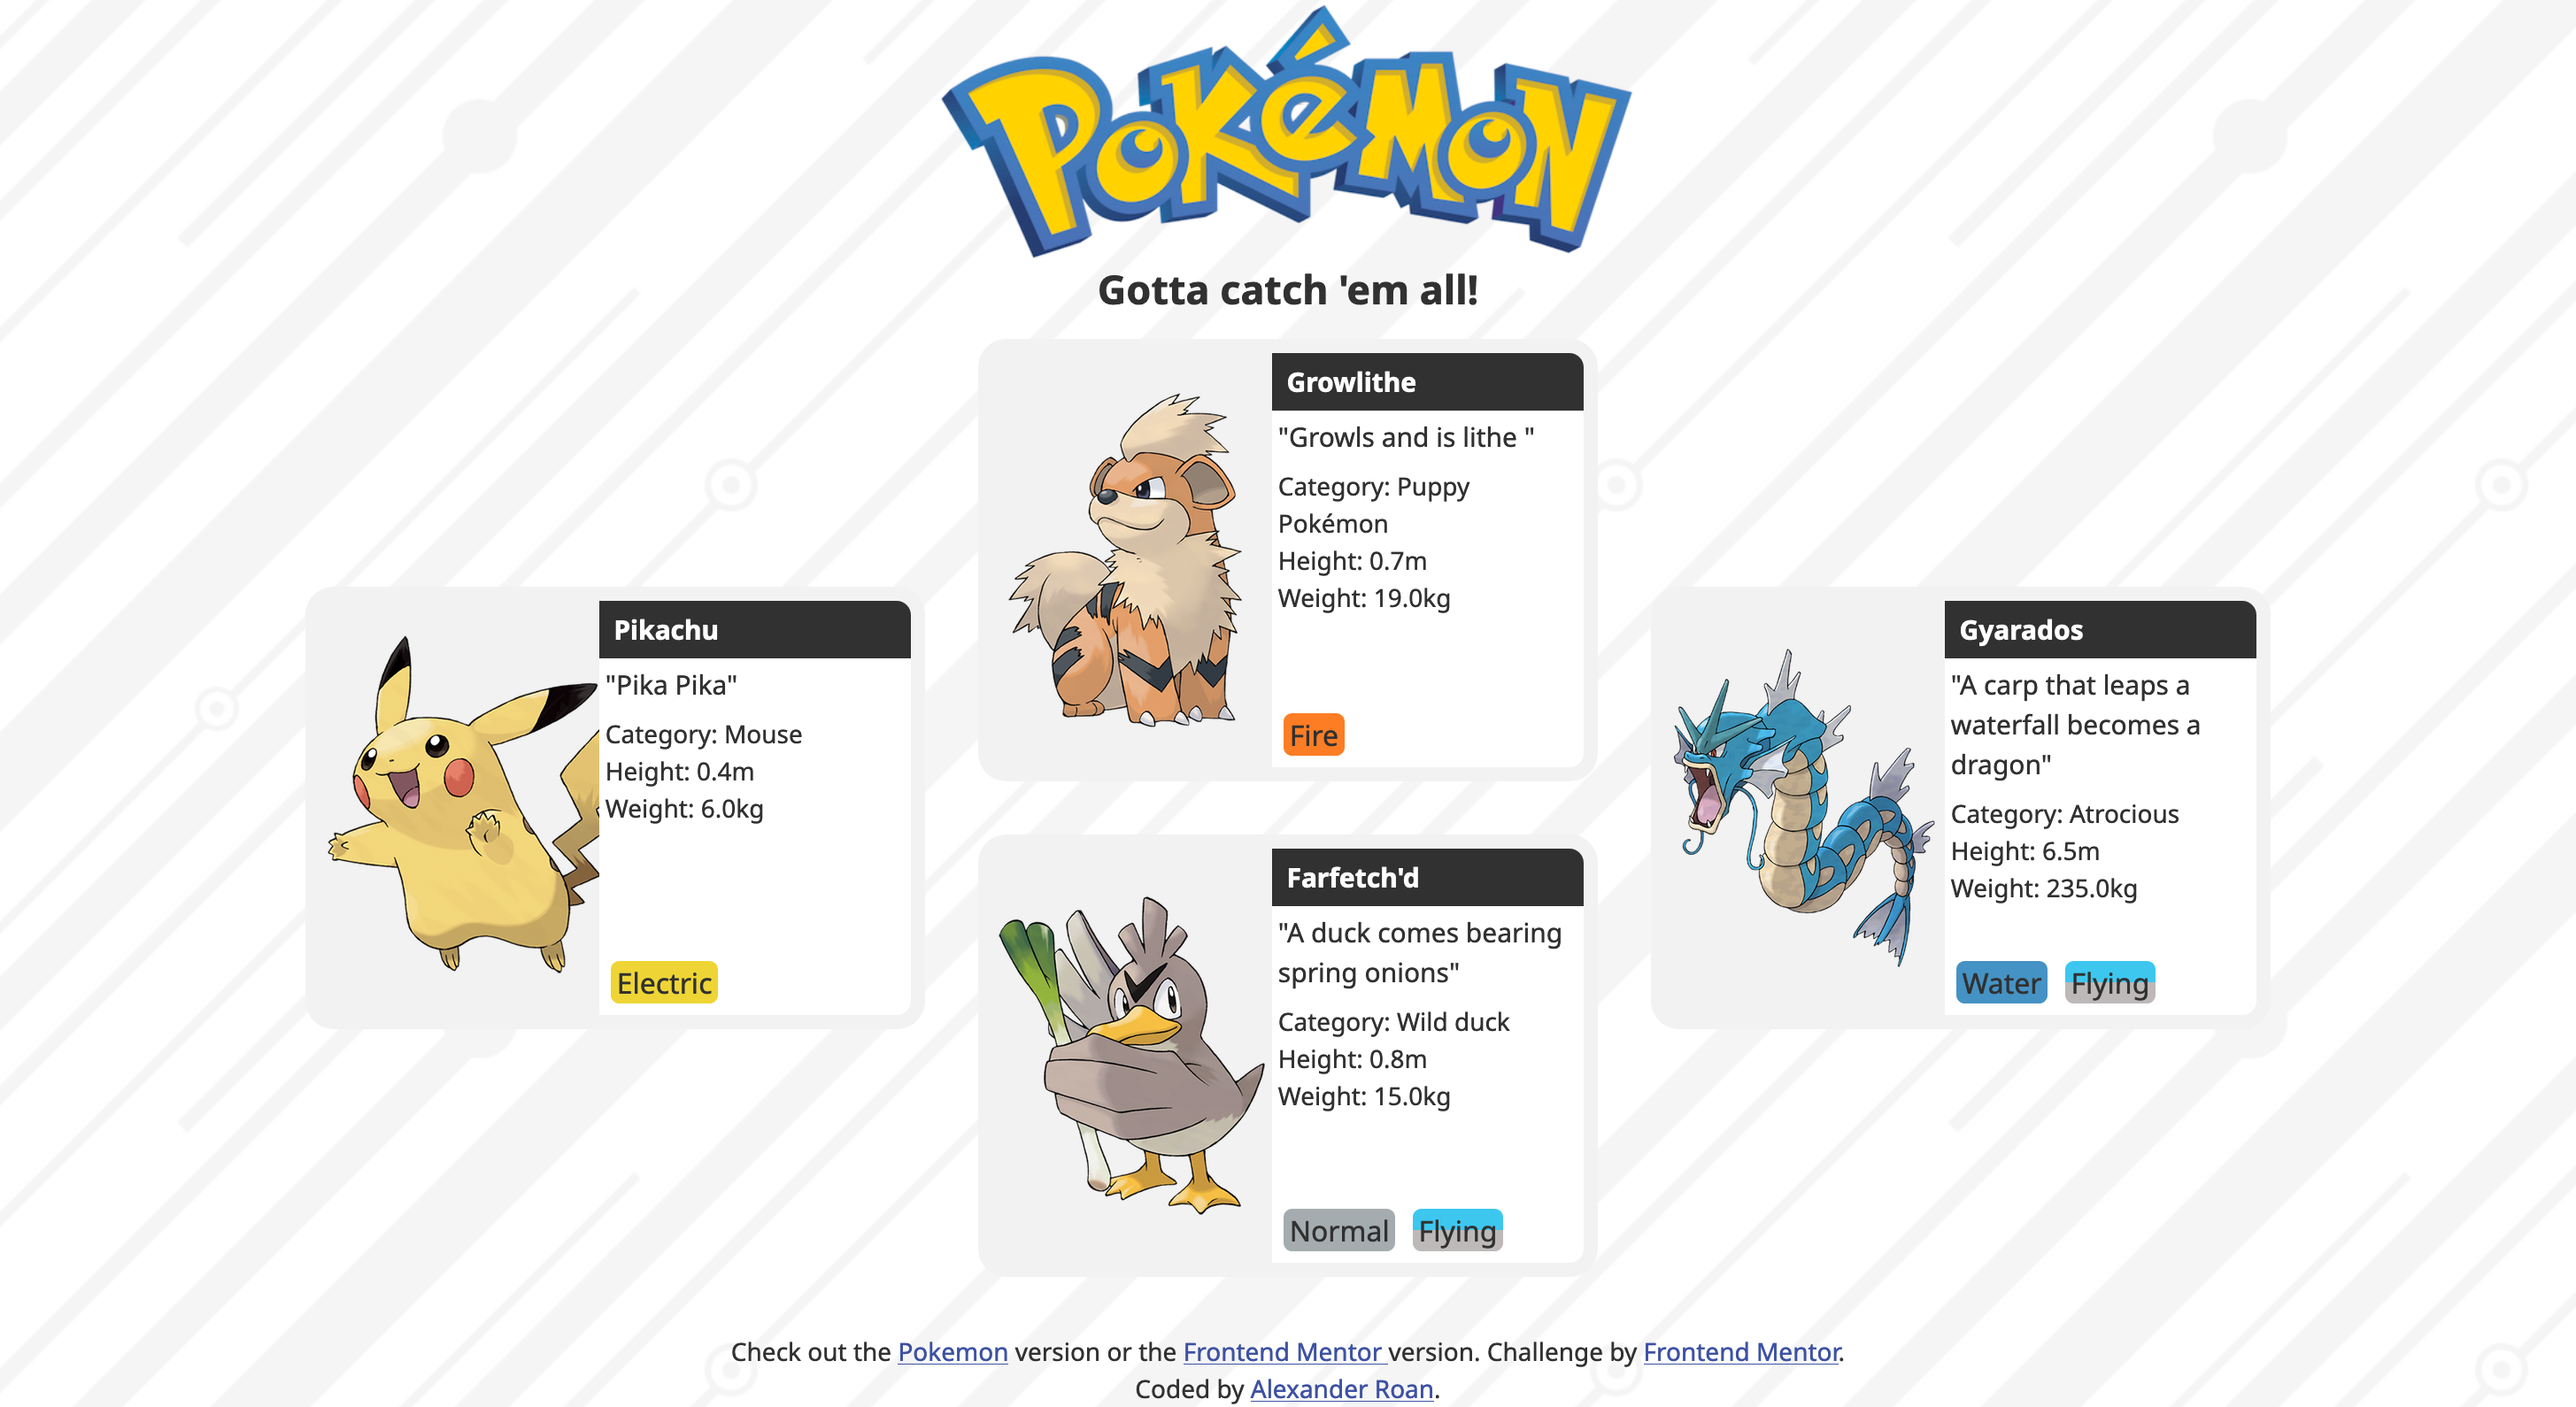
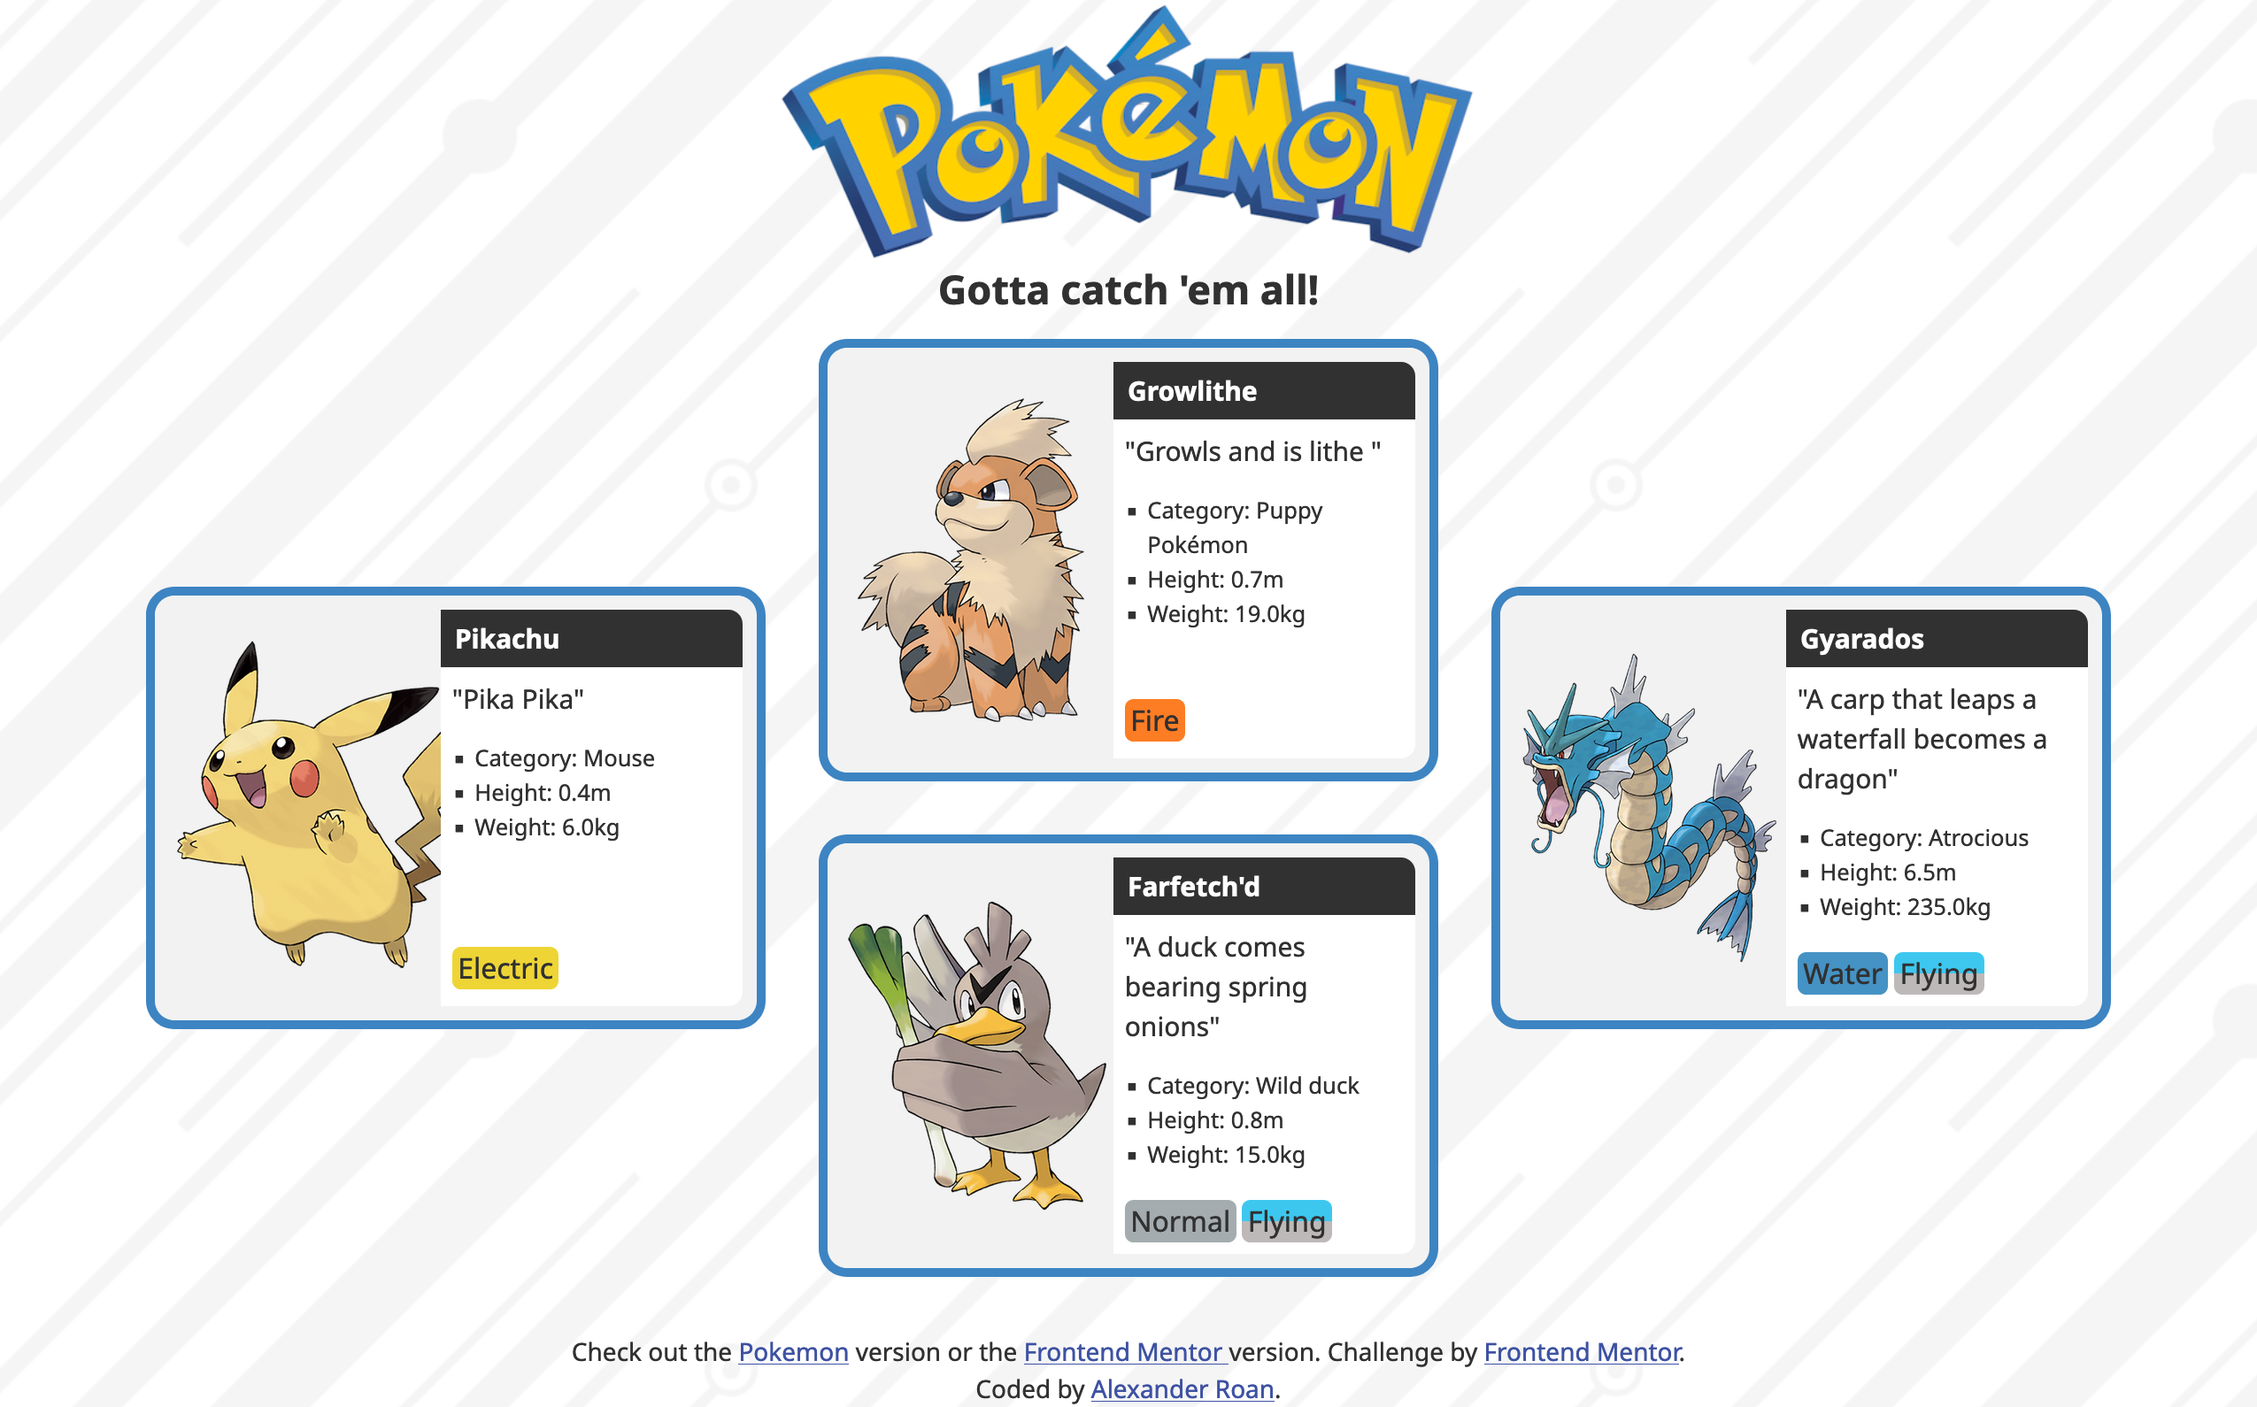
Add border to pokemon layout and adjust text

Changed region(s): [[0.062, 0.0, 0.9604, 0.9245], [0.2478, 0.9553, 0.7435, 1.0]]

diff --git a/styles.css b/styles.css
@@ -240,6 +240,7 @@ footer {
   background-color: #F2F2F2;
   border: none;
   padding: 0.5rem;
+  border: 5px solid #3d84c2;
 }
 
 .card--pokemon img {
@@ -257,12 +258,13 @@ footer {
 }
 
 .card--pokemon p, .card--pokemon ul {
-  padding: 0.2rem;
+  padding: 0.4rem;
 }
 
 .card--pokemon ul {
-  list-style-type: none;
-  font-size: 0.875rem;
+  list-style-type: square;
+  font-size: 0.8rem;
+  margin-left: 1em;
 }
 
 .card--pokemon h1 {
@@ -273,14 +275,16 @@ footer {
   padding: 0.5rem;
 }
 
-.pokemon__types-list {
+.card--pokemon .pokemon__types-list {
+  list-style-type: none;
   margin-top: auto;
+  margin-left: 0em;
 }
 
 .pokemon__types {
   display: inline-block;
-  margin: 0.2rem 0.2rem;
-  padding: 0rem 0.2rem;
+  margin: 0.2rem 0rem;
+  padding: 0 0.2rem;
   border-radius: 0.3rem;
   font-size: 1rem;
 }
